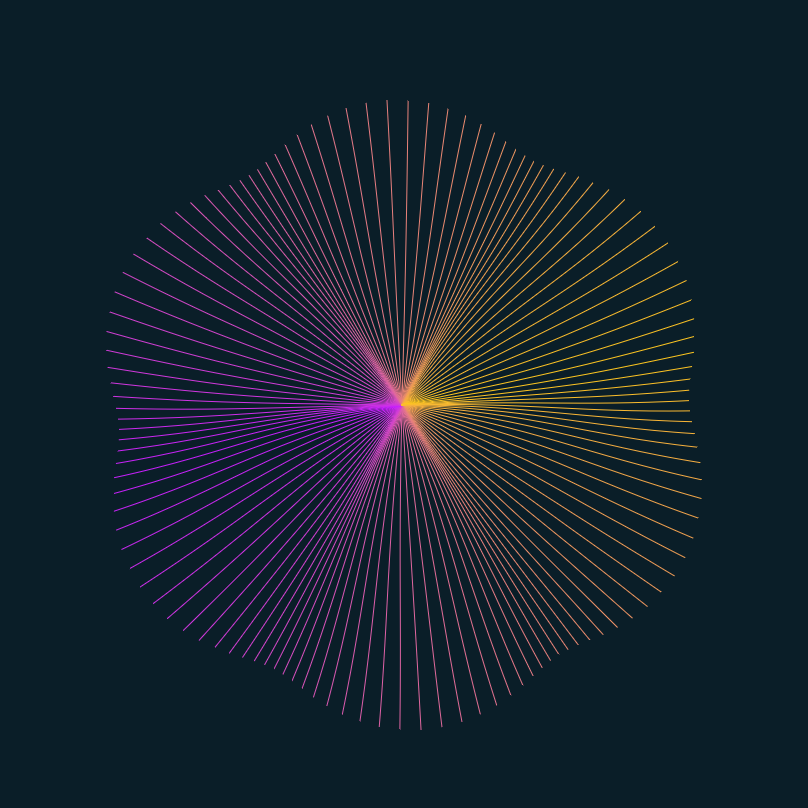
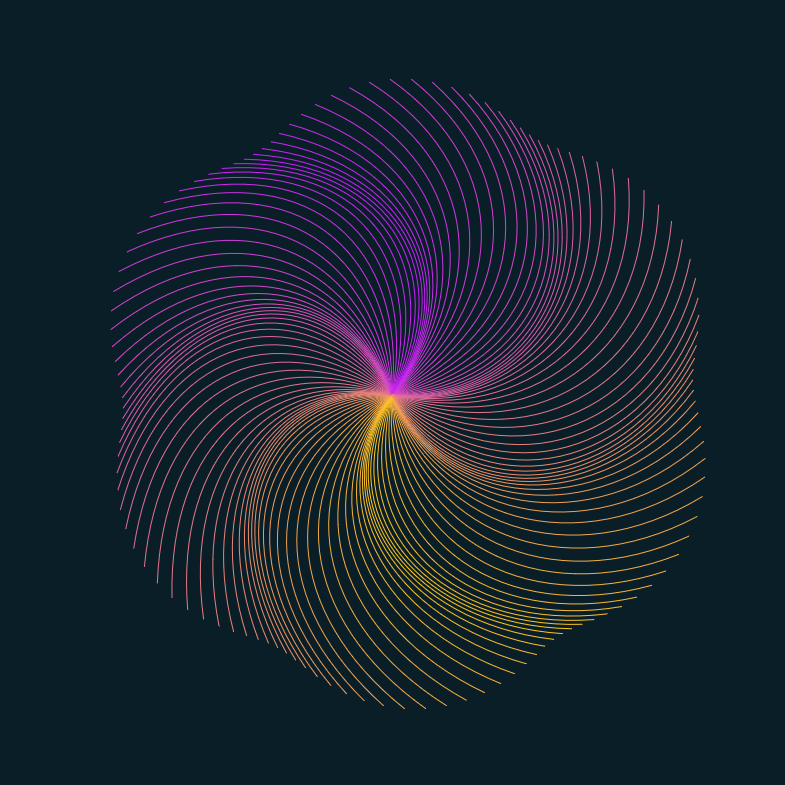
added spin

Changed region(s): [[0.1223, 0.1223, 0.8866, 0.9172]]

diff --git a/sketch.js b/sketch.js
@@ -13,7 +13,7 @@ var alpha, beta, lerpVar;
 var deltaX=0;
 var deltaY=0;
 var mult1=0;
-var mult2=2;
+var mult2=5;
 function draw() {
 
   background(10,30,40);
@@ -41,8 +41,8 @@ function draw() {
     //fill(lerpColor(color(200,30,255,10), color(255,200,30,10), lerpVar));
     //line(mouseX-windowWidth/2,mouseY-windowHeight/2,cos(alpha)*radius+deltaX,sin(alpha)*radius+deltaY);
     bezier(mouseX-windowWidth/2, mouseY-windowHeight/2,
-     (cos(alpha)*radius/2+deltaX+mouseX-windowWidth/2)*.92, (sin(alpha)*radius/2+deltaY+mouseY-windowHeight/2)*.92,
-     (cos(alpha)*radius+deltaX)*.6,(sin(alpha)*radius+deltaY)*.6, cos(alpha)*radius+deltaX,sin(alpha)*radius+deltaY);
+     (cos(alpha+60)*radius*.5+deltaX+mouseX-windowWidth/2)*.92, (sin(alpha+60)*radius*.5+deltaY+mouseY-windowHeight/2)*.92,
+     (cos(alpha+30)*radius+deltaX)*.8,(sin(alpha+30)*radius+deltaY)*.8, cos(alpha)*radius+deltaX,sin(alpha)*radius+deltaY);
   }
 
 
